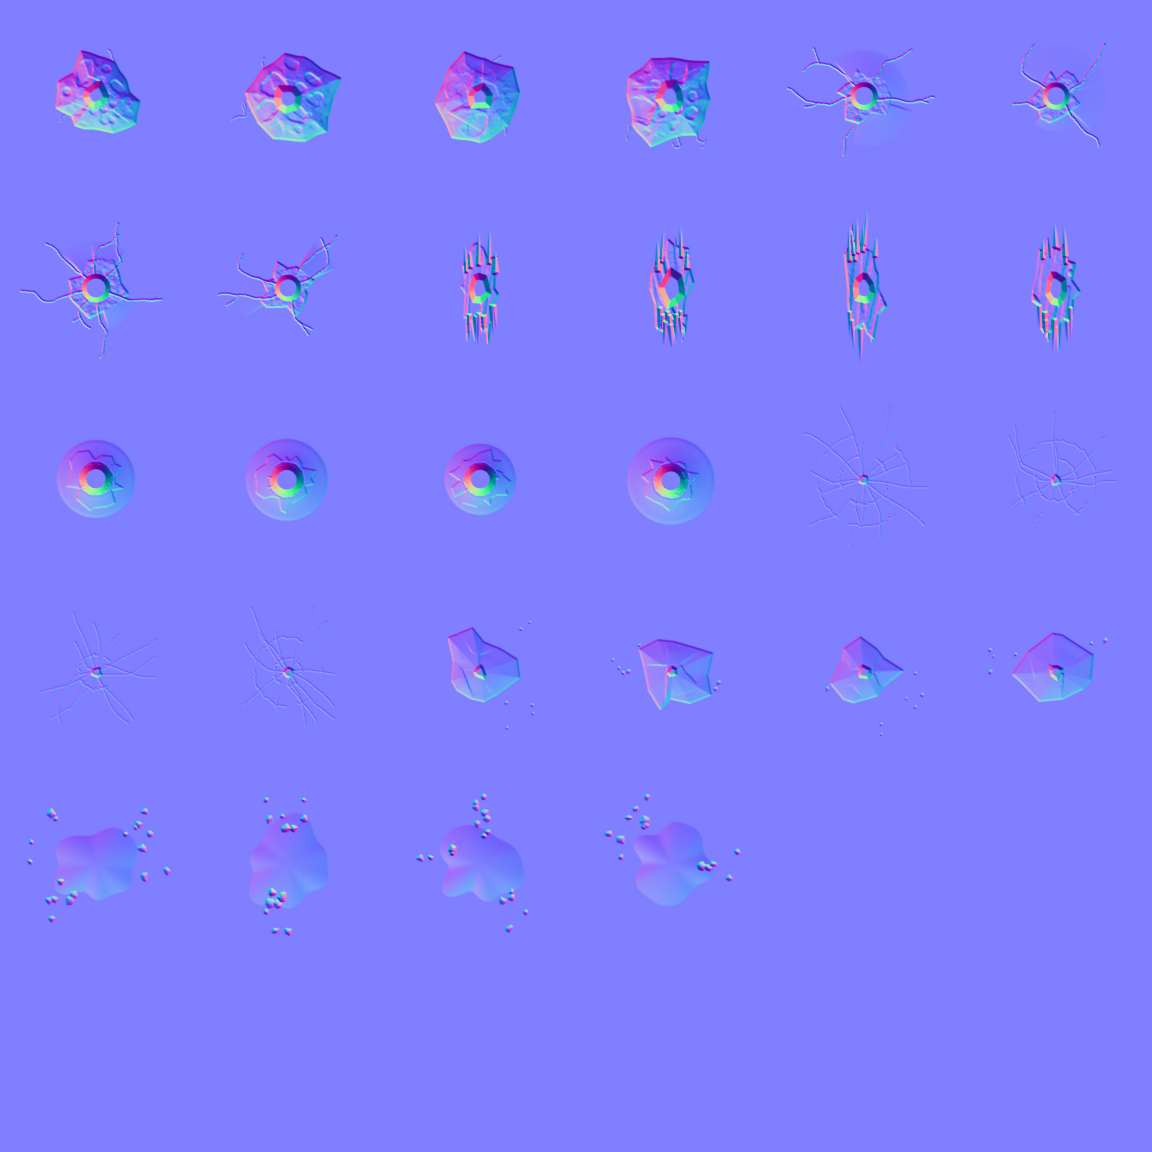
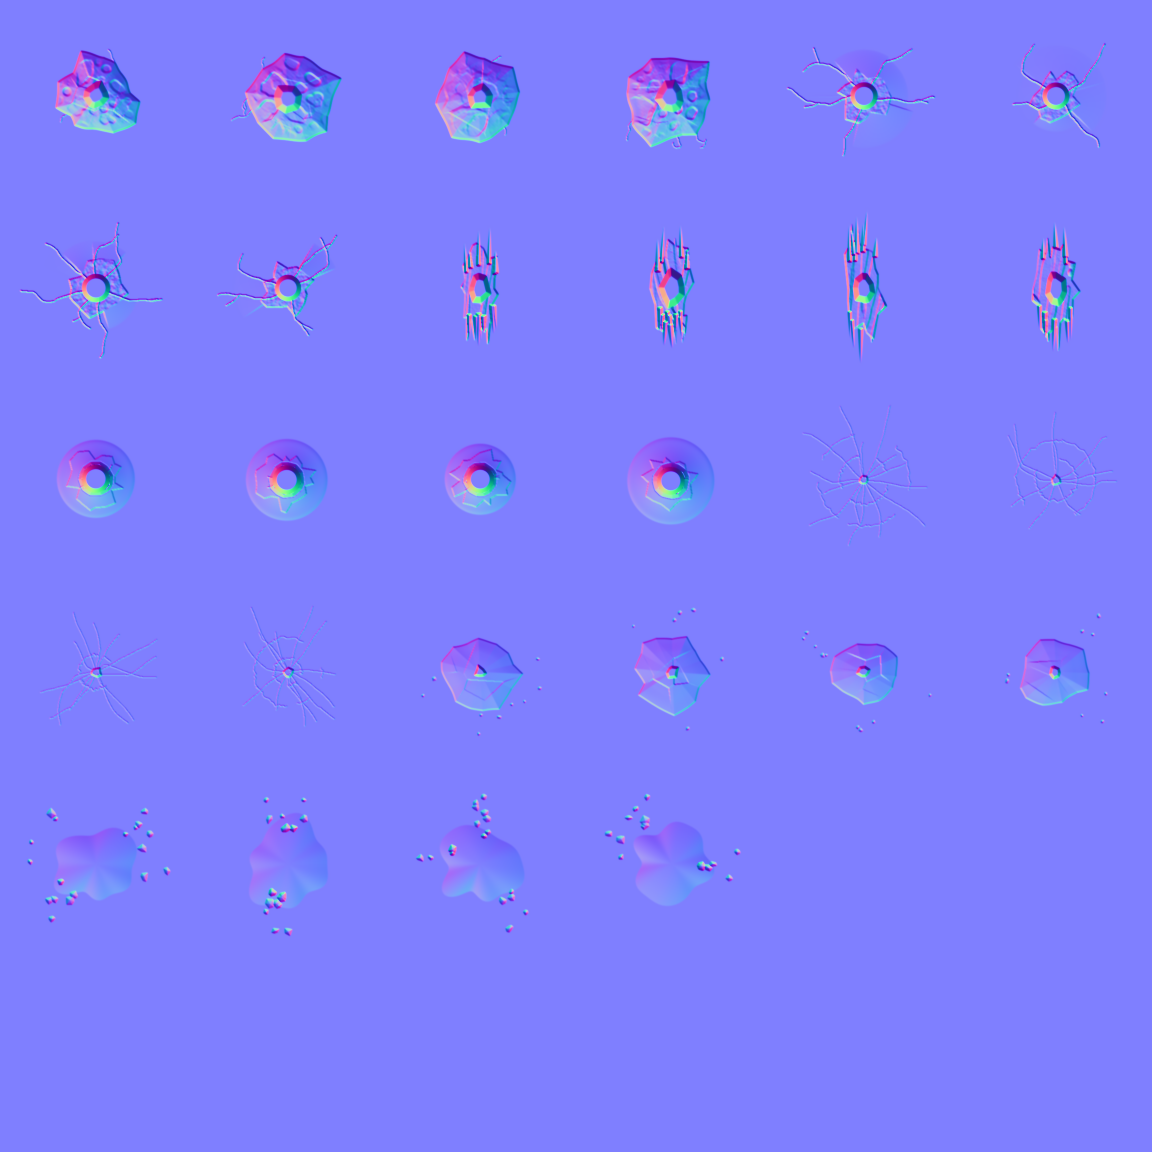
render: rounder pavement pock marks with a softer splash

diff --git a/assets/fx/impacts/_src/build_atlas.py b/assets/fx/impacts/_src/build_atlas.py
@@ -579,7 +579,8 @@ def pavement(rng):
     """Asphalt, paving and kerb: a shallow chipped pock mark (no deep hole), lighter fresh stone, loose chips and
     a dust splash."""
     m = Mark(rough=0.9)
-    rc, rd = polygon_radius(rng, int(rng.integers(9, 14)), rng.uniform(0.3, 0.4), 0.28)
+    rc, rd = polygon_radius(rng, int(rng.integers(12, 17)), rng.uniform(0.3, 0.4), 0.16)
+    rc = rc * (1.0 + lobes(rng, 2, 5, 0.08))
     crater = inside(edge_px(rc, rd))
     t = np.clip(rd / rc, 0, 1.5)
     fac = facets(rng, int(rng.integers(5, 9)), crater > 0.5, 0.008, 0.05)
@@ -596,7 +597,7 @@ def pavement(rng):
     cov *= (1 - crater)
     h = np.where(cov > 0, np.maximum(h, 0.02 * dome * cov), h)
     m.over(lin((150, 146, 142)), cov)
-    dust(rng, m, rc + 0.01, rng.uniform(0.18, 0.3), 0.32, (192, 186, 180), rays=int(rng.integers(5, 9)))
+    dust(rng, m, rc + 0.01, rng.uniform(0.14, 0.24), 0.26, (192, 186, 180), rays=int(rng.integers(3, 6)))
     m.h = h
     m.fade_out()
     return m
